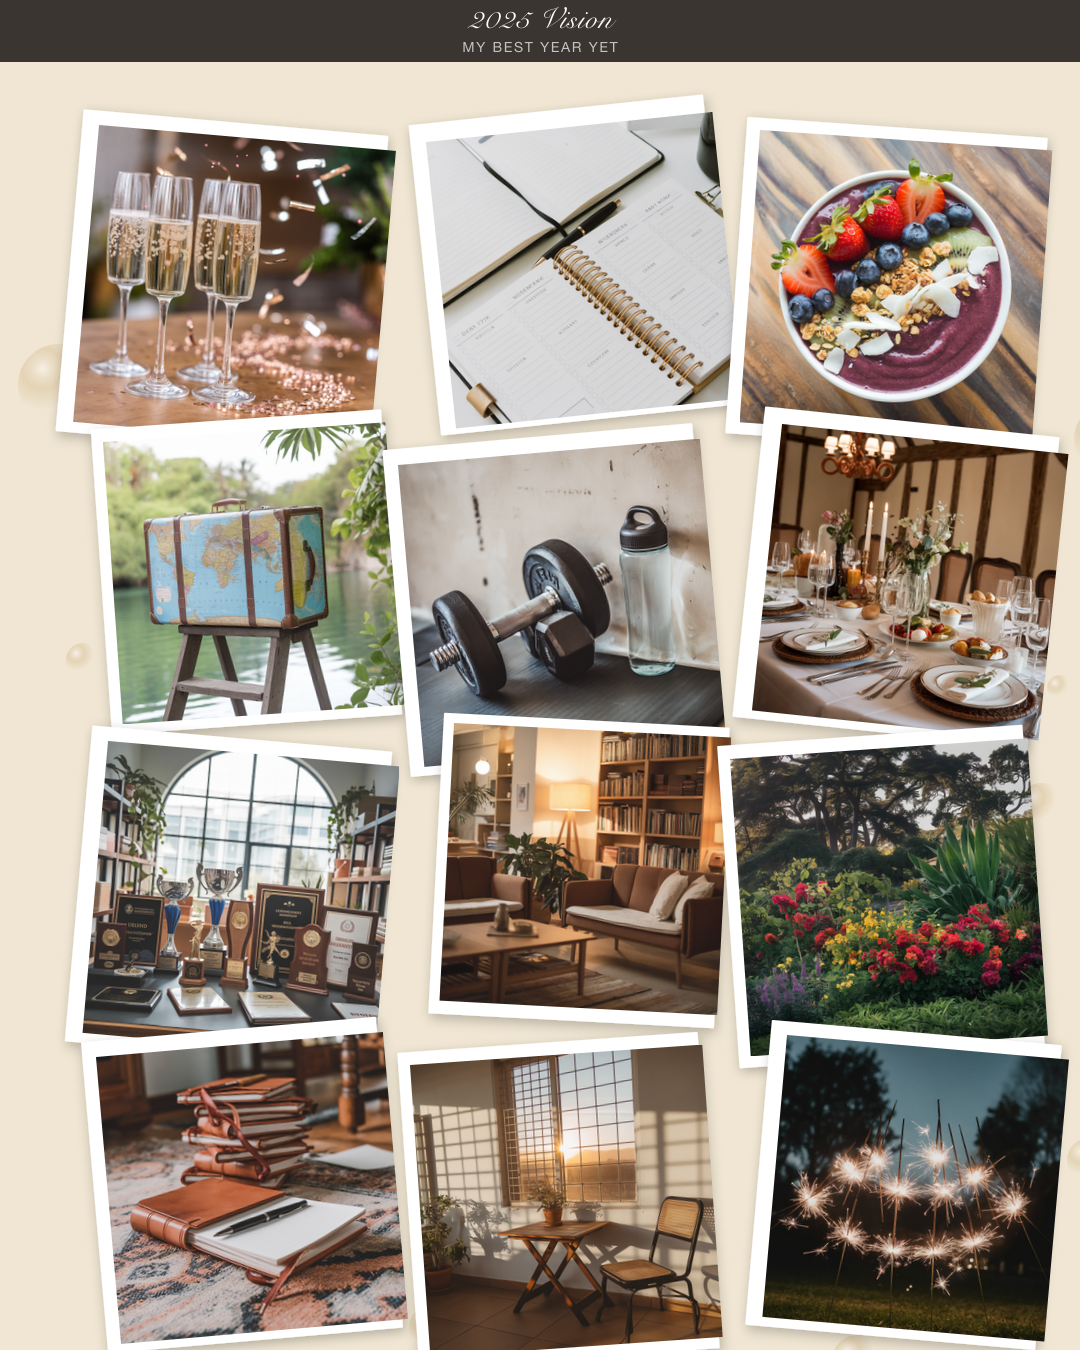
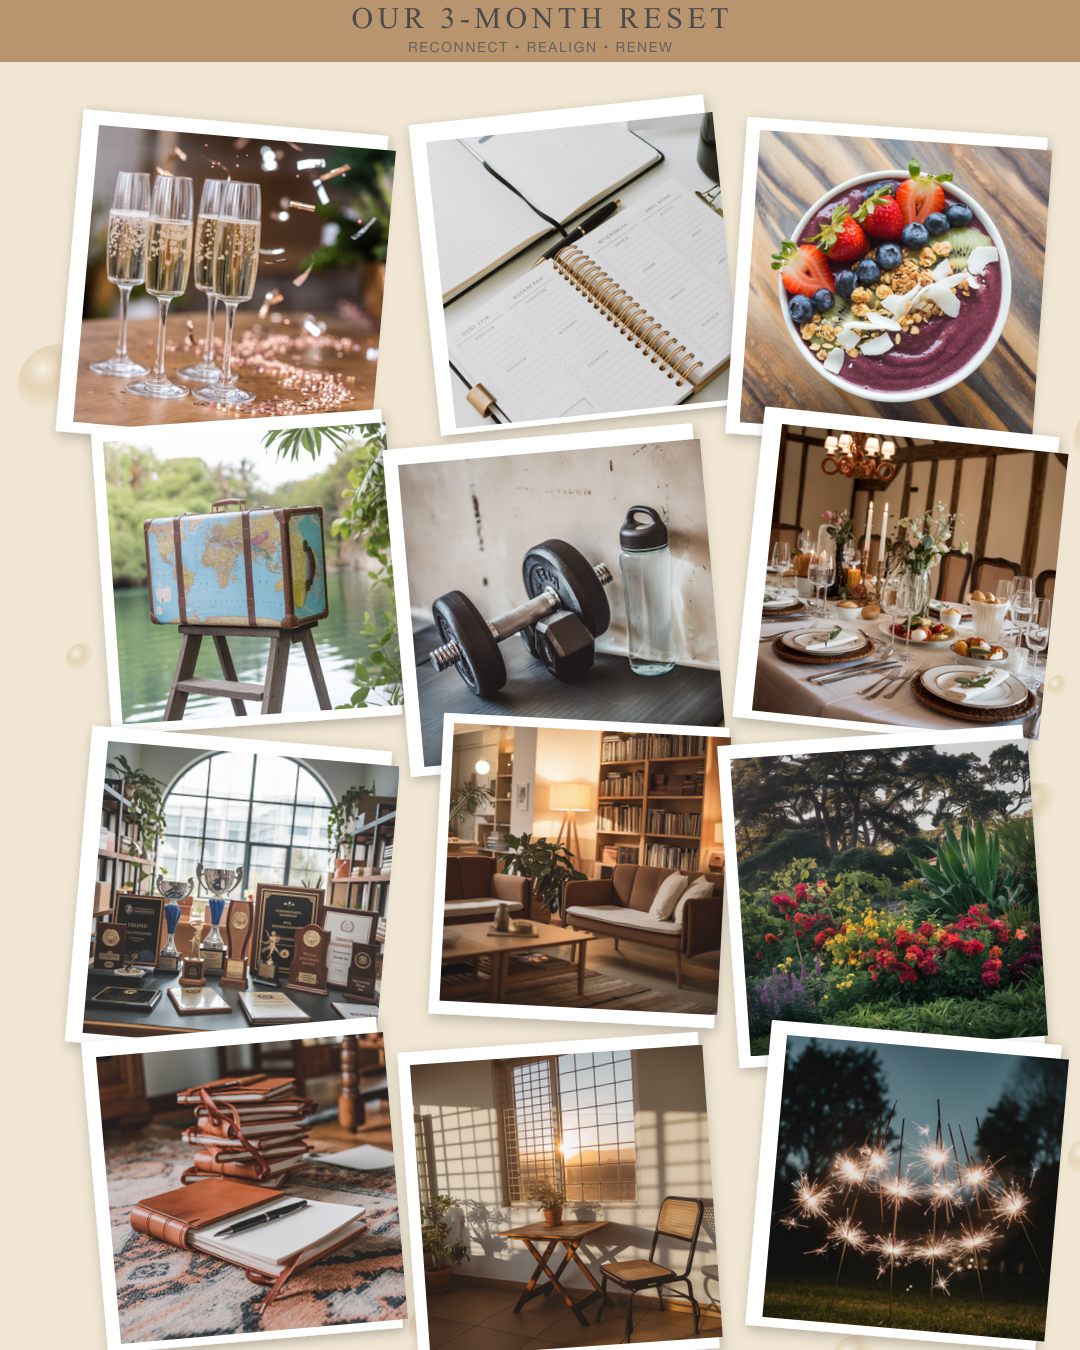
Update vision board demos with 3 distinct themes
- Male: "BUILT DIFFERENT" (dark navy/gold, professional discipline imagery)
- Female: "SARAH'S 2026 VISION" (dusty rose, self-care/feminine imagery)
- Relationship: "OUR 3-MONTH RESET" (warm gold, couples activity imagery)

All boards have no people/faces, unique themes, updated year references.

🤖 Generated with [Claude Code](https://claude.com/claude-code)

Changed region(s): [[0.0, 0.0, 1.0, 0.0622]]

diff --git a/scripts/addTitlesToExistingBoards.js b/scripts/addTitlesToExistingBoards.js
@@ -24,12 +24,12 @@ const BOARDS = [
     id: 'male',
     inputFile: 'sample-vision-board-male.png',
     outputFile: 'sample-vision-board-male.png',
-    title: "JAMES' BEST YEAR YET",
-    subtitle: "GOALS • GROWTH • GREATNESS",
+    title: "BUILT DIFFERENT",
+    subtitle: "FOCUS • DISCIPLINE • EXECUTE",
     colors: {
-      banner: '#c9a962',       // Gold
-      bannerText: '#ffffff',
-      bannerSubtext: 'rgba(255,255,255,0.7)'
+      banner: '#1a1a2e',       // Dark navy
+      bannerText: '#c9a962',   // Gold text
+      bannerSubtext: 'rgba(201,169,98,0.7)'
     },
     style: 'masculine'
   },
@@ -37,7 +37,7 @@ const BOARDS = [
     id: 'female',
     inputFile: 'sample-vision-board-female.png',
     outputFile: 'sample-vision-board-female.png',
-    title: "SARAH'S DREAM YEAR",
+    title: "SARAH'S 2026 VISION",
     subtitle: "LOVE • DREAM • SHINE",
     colors: {
       banner: '#d4a5a5',       // Dusty rose
@@ -47,11 +47,11 @@ const BOARDS = [
     style: 'feminine'
   },
   {
-    id: 'newyear',
-    inputFile: 'sample-vision-board-newyear.png',
-    outputFile: 'sample-vision-board-newyear.png',
-    title: "ALEX'S 2025 VISION",
-    subtitle: "MY YEAR • MY GOALS • MY LIFE",
+    id: 'relationship',
+    inputFile: 'sample-vision-board-relationship.png',
+    outputFile: 'sample-vision-board-relationship.png',
+    title: "OUR 3-MONTH RESET",
+    subtitle: "RECONNECT • REALIGN • RENEW",
     colors: {
       banner: '#b8956e',       // Warm gold
       bannerText: '#4a4a4a',
